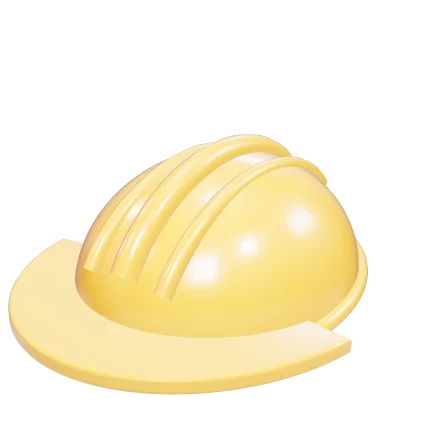
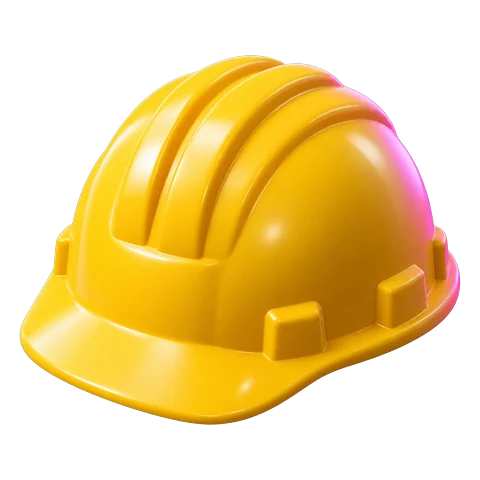
Home page: the generated hard hat for the About section
Replaces the placeholder with Ajmal's generated image, trimmed to its
edges and fitted to a 480px square WebP with its transparency kept.
IMAGE-PROMPTS.md now says to send images in the chat and tracks which
slots are done.

Claude-Session: https://claude.ai/code/session_01YPipLgghCYpxQS9JpqdTrz

diff --git a/landing/IMAGE-PROMPTS.md b/landing/IMAGE-PROMPTS.md
@@ -7,11 +7,12 @@ complete without them. Replace them in any order.
 ## How to swap one in
 
 1. Paste the prompt into your image model and generate.
-2. On GitHub, open the `claude/dark-landing-page` branch, go to
-   `assets/home/img/`, choose **Add file → Upload files**, and upload it with
-   the slot's name. PNG or JPG is fine, e.g. `hero-portrait.png`.
-3. Tell Claude the images are uploaded. It converts them to WebP at the right
-   size, replaces the placeholders and checks the page.
+2. Attach the image in your chat with Claude and say which slot it is for.
+   PNG or JPG is fine.
+3. Claude fits it to the slot as WebP, replaces the placeholder, checks the
+   page and pushes it.
+
+Done so far: `about-hardhat`.
 
 Order that matters most: the portrait, then the three projects, then the four
 About icons, then the marquee.
